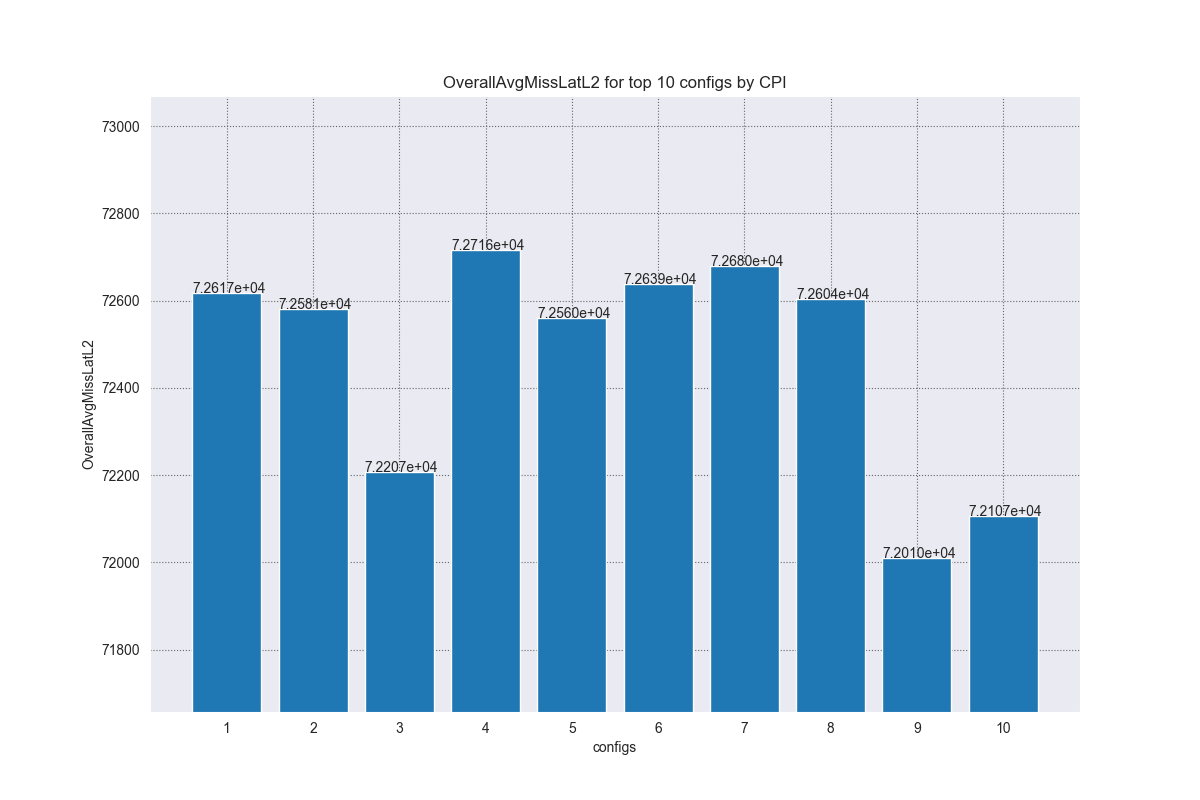
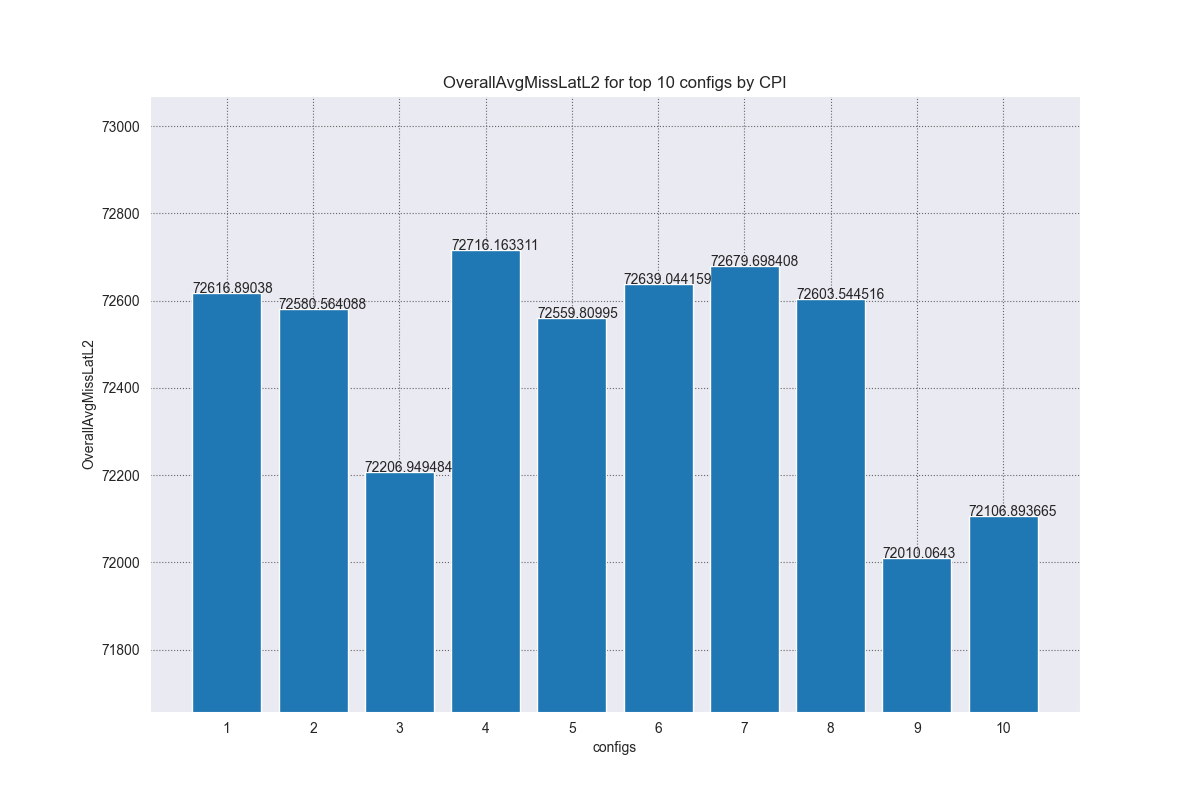
Remove e from value

diff --git a/plot.py b/plot.py
@@ -148,7 +148,7 @@ if __name__ == '__main__':
         plt.ylim(min_y_lim, max_y_lim)
         plt.bar(x_data, y_data)
         for index, data in enumerate(y_data):
-            plt.text(index+.6, data , '{0:5.4e}'.format(data))
+            plt.text(index+.6, data , '{0:8}'.format(data))
         plt.xlabel("configs")
         plt.ylabel(key)
         plt.xticks(x_data)
